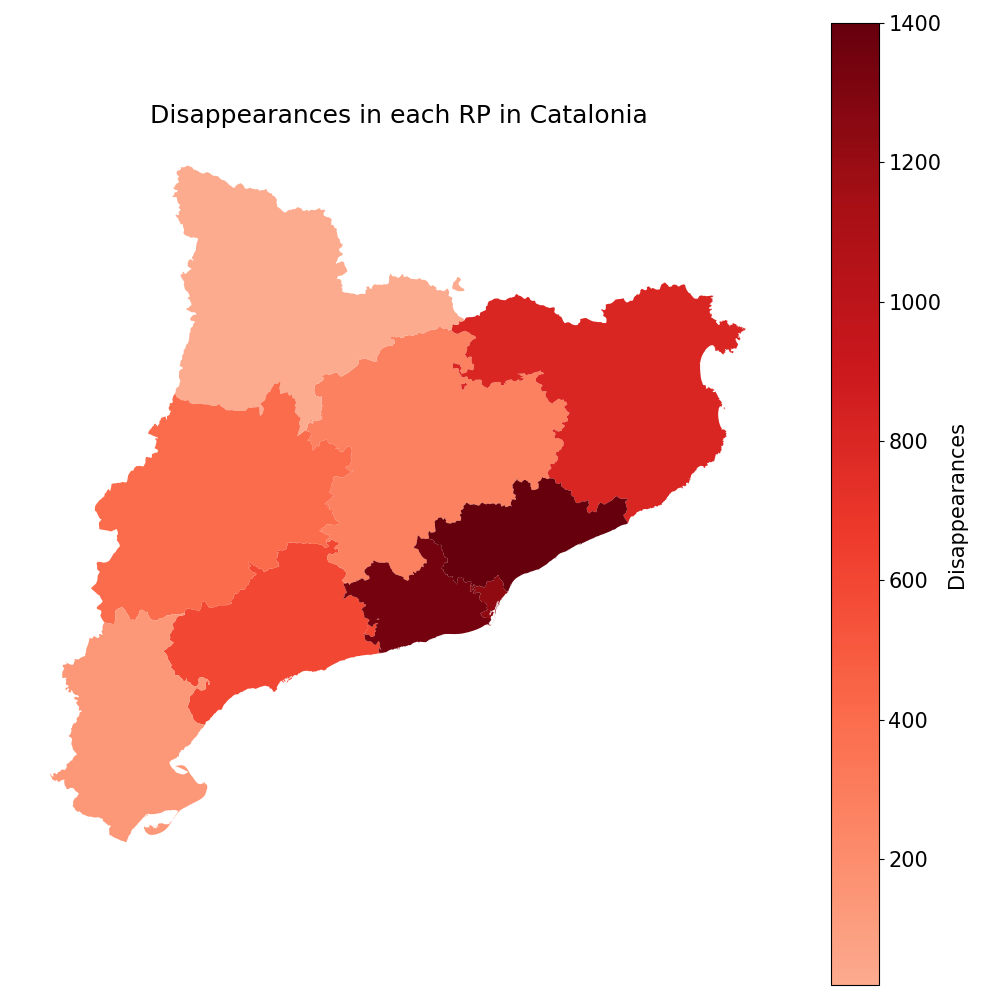
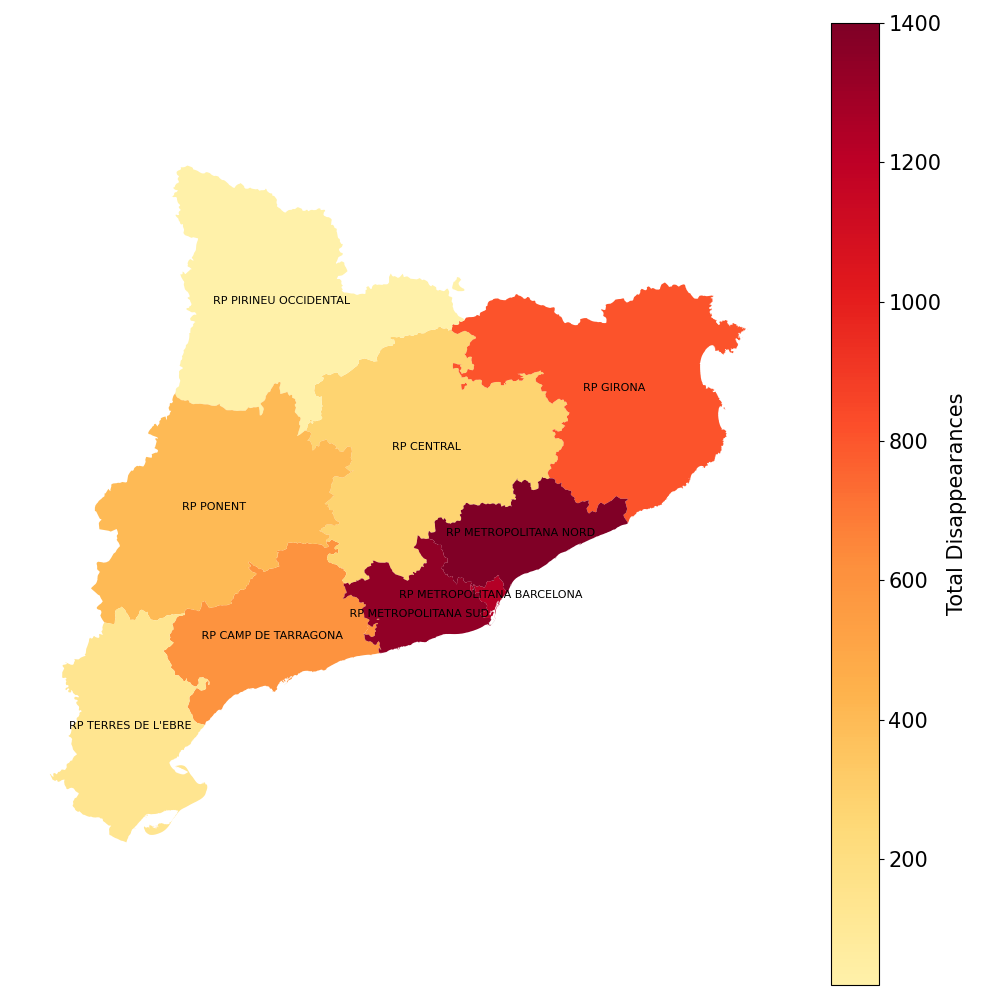
mod figs, labels RP

diff --git a/Robert/anal_script.py b/Robert/anal_script.py
@@ -161,14 +161,15 @@ for comarca in cat["NOMCOMAR"]:
                 break
             
 #%%
-#cat.insert(11, 'RP', com_list) #Activate in 1st run
+cat.insert(11, 'RP', com_list) #Activate in 1st run
 cat["RP"] = com_list
 print(cat["NOMCOMAR"].value_counts())
 print(disap_data["regi_policial"].value_counts())
 #%%RP MAPA
 
 new_map = cat[['RP','geometry']]
-reg_poli = new_map.dissolve(by = 'RP')
+reg_poli = new_map.dissolve(by = 'RP', as_index = True)
+#reg_poli = reg_poli.set_index("RP")
 reg_poli.insert(1, 'DISAP', disap_data["regi_policial"].value_counts())
 #%% 
 RP_tot_pop = {'RP METROPOLITANA NORD':2195758, 
@@ -176,27 +177,39 @@ RP_tot_pop = {'RP METROPOLITANA NORD':2195758,
                "RP CAMP DE TARRAGONA":637198, 
                "RP TERRES DE L'EBRE":179574,"RP PONENT":367016, 
                "RP PIRINEU OCCIDENTAL": 72913, "RP METROPOLITANA BARCELONA":1664182}
-#reg_poli.set_index("RP")
+
 for key in RP_tot_pop.keys():
     print(reg_poli.at[key, "DISAP"]/RP_tot_pop[key])
-    reg_poli.at[key, "DISAP"] = reg_poli.at[key, "DISAP"]*10000/RP_tot_pop[key]
+    reg_poli.at[key, "DISAP"] = reg_poli.at[key, "DISAP"]#*100000/RP_tot_pop[key]
 
+reg_poli['RP_new']=['\n RP CAMP DE TARRAGONA', 'RP CENTRAL', 'RP GIRONA',
+                    'RP METROPOLITANA BARCELONA', 'RP METROPOLITANA NORD', 
+                    '\n\n RP METROPOLITANA SUD', 'RP PIRINEU OCCIDENTAL',
+                    'RP PONENT', "RP TERRES DE L'EBRE"]
 #%%
-min_val, max_val = 0.3,1.0
+min_val, max_val = 0.1,1.0
 n = 100
 f, ax = plt.subplots(figsize=(10,10))
 vmin = reg_poli.DISAP.min()
 vmax = reg_poli.DISAP.max()
-orig_cmap = plt.cm.Reds
+orig_cmap = plt.cm.YlOrRd
 colors = orig_cmap(np.linspace(min_val, max_val, n))
 cmap = matplotlib.colors.LinearSegmentedColormap.from_list("mycmap", colors)
 sm = plt.cm.ScalarMappable(cmap=cmap, norm=plt.Normalize(vmin=vmin, vmax=vmax))
 reg_poli.plot(ax = ax, column='DISAP', cmap=cmap, label = "a", legend=False)
 cbar = f.colorbar(sm)
-cbar.set_label('Disappearances', fontsize = 15)
+cbar.set_label('Disappearances per 100.000 inhabitants', fontsize = 15)
 cbar.ax.tick_params(labelsize=15)
 plt.axis('off')
-plt.title('Disappearances in each RP in Catalonia per 10000 inhabitants', fontsize = 18)
+
+reg_poli = reg_poli.reset_index()
+
+for index, row in reg_poli.iterrows():
+    xy = row['geometry'].centroid.coords[:]
+    xytext = row['geometry'].centroid.coords[:]
+    plt.annotate(row['RP_new'], xy=xy[0], xytext=xytext[0], horizontalalignment='center', verticalalignment='center', fontsize=8)
+    plt.axis('off')
+#plt.title('Disappearances in Catalonia per 100.000 inhabitants', fontsize = 18)
 plt.show()
 
 #%%
@@ -204,19 +217,28 @@ for key in RP_tot_pop.keys():
     print(reg_poli.at[key, "DISAP"]/RP_tot_pop[key])
     reg_poli.at[key, "DISAP"] = reg_poli.at[key, "DISAP"]
 #%%
-min_val, max_val = 0.3,1.0
+min_val, max_val = 0.1,1.0
 n = 100
 f, ax = plt.subplots(figsize=(10,10))
 vmin = reg_poli.DISAP.min()
 vmax = reg_poli.DISAP.max()
-orig_cmap = plt.cm.Reds
+orig_cmap = plt.cm.YlOrRd
 colors = orig_cmap(np.linspace(min_val, max_val, n))
 cmap = matplotlib.colors.LinearSegmentedColormap.from_list("mycmap", colors)
 sm = plt.cm.ScalarMappable(cmap=cmap, norm=plt.Normalize(vmin=vmin, vmax=vmax))
 reg_poli.plot(ax = ax, column='DISAP', cmap=cmap, label = "a", legend=False)
+
+reg_poli = reg_poli.reset_index()
+
+for index, row in reg_poli.iterrows():
+    xy = row['geometry'].centroid.coords[:]
+    xytext = row['geometry'].centroid.coords[:]
+    plt.annotate(row['RP_new'], xy=xy[0], xytext=xytext[0], horizontalalignment='center', verticalalignment='center', fontsize=8)
+    plt.axis('off')
+    
 cbar = f.colorbar(sm)
-cbar.set_label('Disappearances', fontsize = 15)
+cbar.set_label('Total Disappearances', fontsize = 15)
 cbar.ax.tick_params(labelsize=15)
 plt.axis('off')
-plt.title('Disappearances in each RP in Catalonia', fontsize = 18)
+#plt.title('Disappearances in Catalonia', fontsize = 18)
 plt.show()
